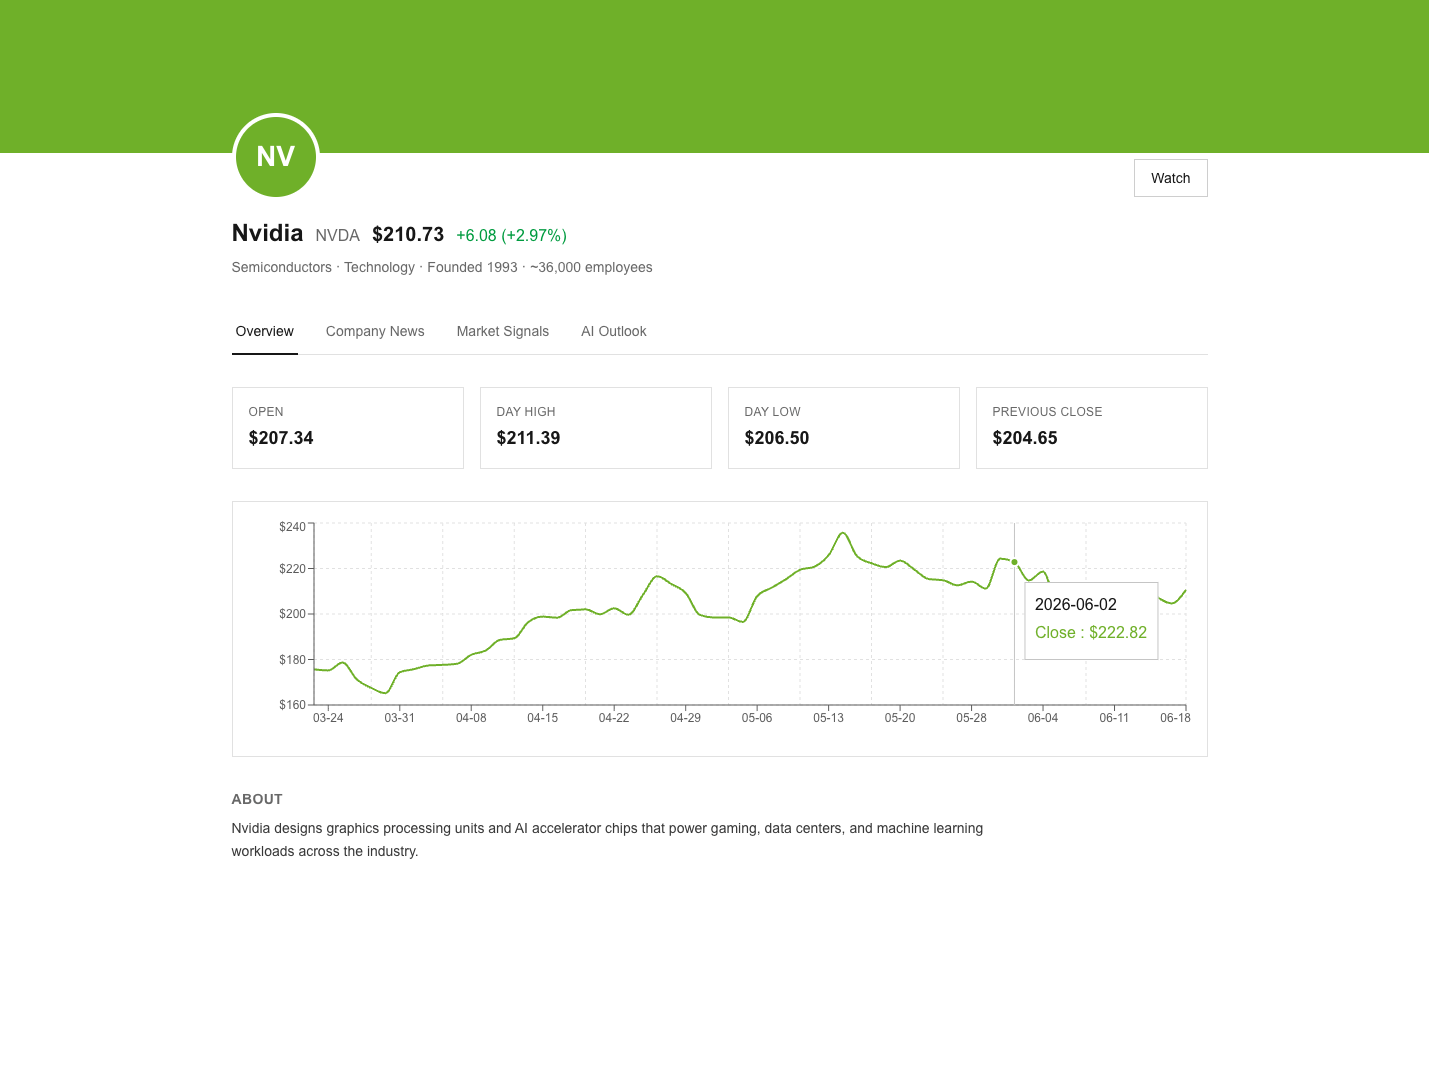
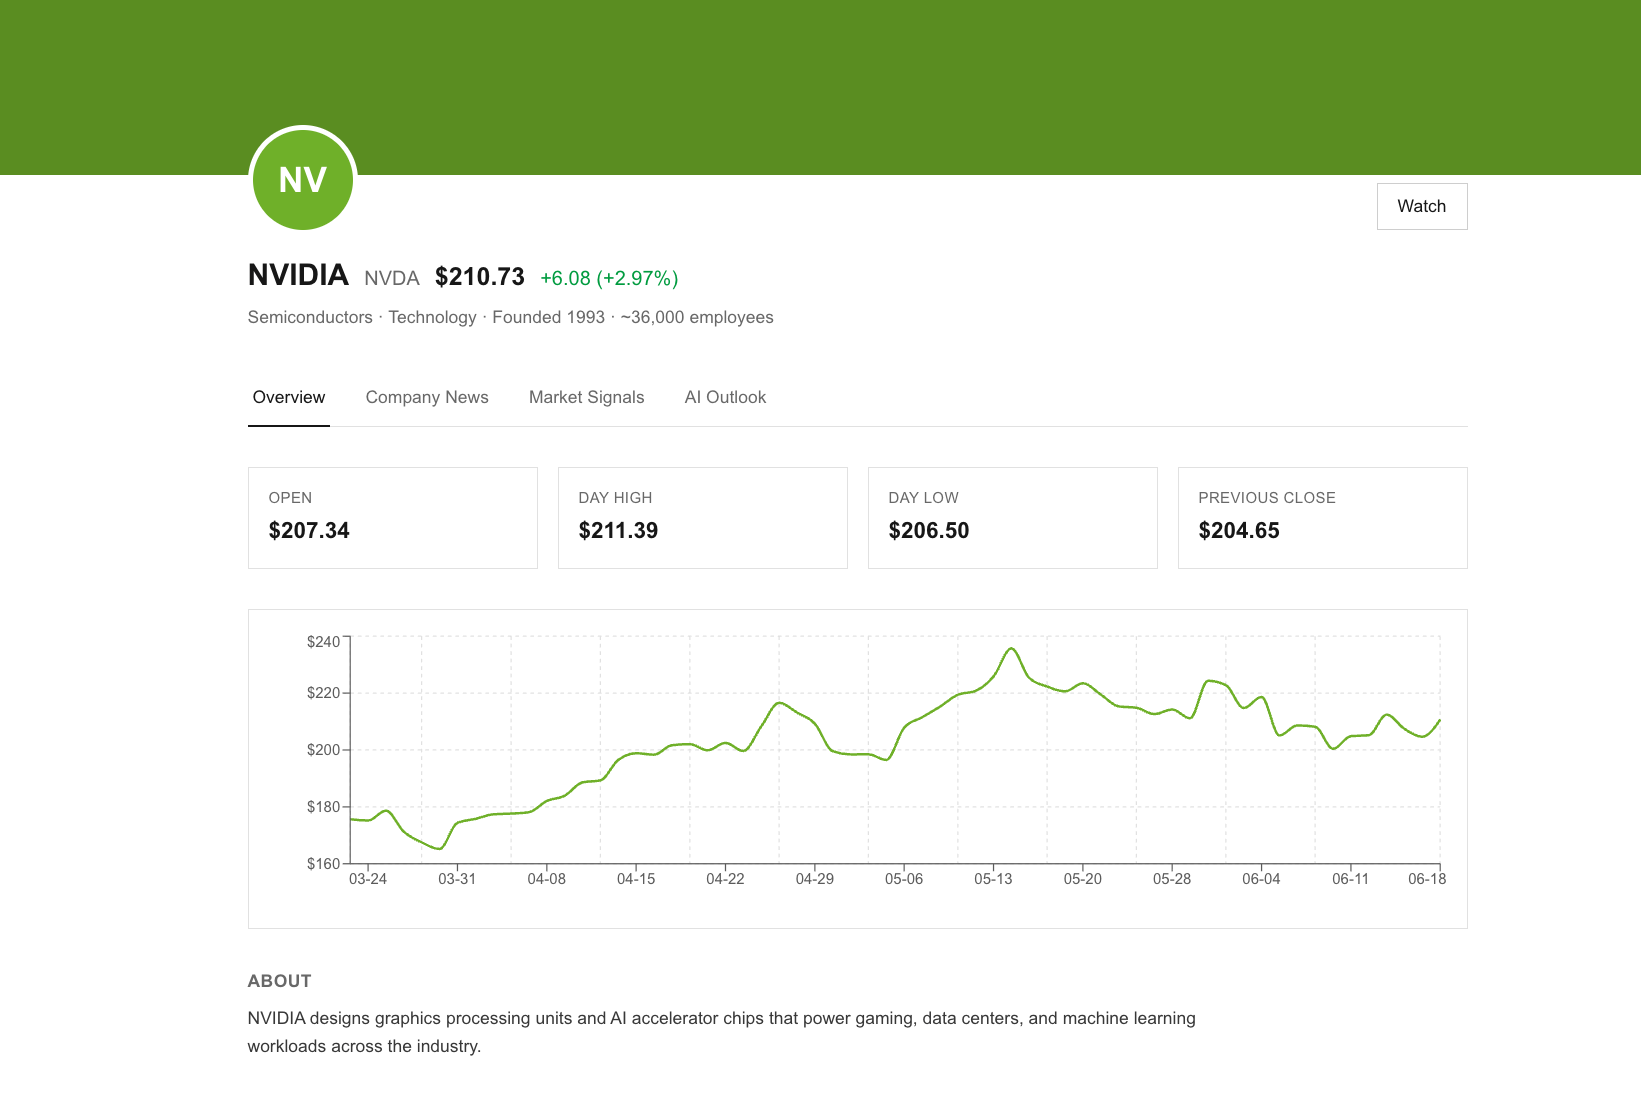
Add watchlist dashboard with live sparklines
New /dashboard route showing all 7 companies as cards with logo,
price, % change, and a 90-day sparkline -- reuses the existing
lib/types.ts, lib/companies.ts, and /api/stock/[ticker] data layer
rather than the duplicated parallel structures from an earlier
design proposal (separate types, a second hardcoded company list,
split quote/candle API routes).

Extracted the shared /api/stock/[ticker] fetch into lib/stockApi.ts
so CompanyCard and the new WatchlistCard don't duplicate fetch logic.

Deliberately omits a sentiment badge (the design proposal had a
hardcoded "BULLISH" tag) since AI Outlook isn't connected to the
frontend yet -- showing a fabricated signal would contradict the
honesty we've maintained elsewhere (e.g. the FastAPI response
exposing its own weak accuracy).

Also updates the README screenshots to show the dashboard and both
working company page tabs instead of the single placeholder image,
and adds the precise current model accuracy (~0.6pp edge over
baseline at best, underperforms on a 7-day horizon) rather than
leaving the claim vague.

diff --git a/frontend/components/Sparkline.tsx b/frontend/components/Sparkline.tsx
@@ -1,0 +1,44 @@
+"use client";
+
+import { Area, AreaChart, ResponsiveContainer } from "recharts";
+import type { Candle } from "@/lib/types";
+
+export default function Sparkline({
+  candles,
+  color,
+}: {
+  candles: Candle[];
+  color: string;
+}) {
+  if (candles.length === 0) {
+    return (
+      <div className="flex h-16 w-full items-center">
+        <div className="h-px w-full bg-neutral-200" />
+      </div>
+    );
+  }
+
+  return (
+    <div className="h-16 w-full">
+      <ResponsiveContainer width="100%" height="100%">
+        <AreaChart data={candles} margin={{ top: 2, right: 0, left: 0, bottom: 2 }}>
+          <defs>
+            <linearGradient id={`spark-${color}`} x1="0" y1="0" x2="0" y2="1">
+              <stop offset="5%" stopColor={color} stopOpacity={0.2} />
+              <stop offset="95%" stopColor={color} stopOpacity={0} />
+            </linearGradient>
+          </defs>
+          <Area
+            type="monotone"
+            dataKey="close"
+            stroke={color}
+            strokeWidth={1.5}
+            fill={`url(#spark-${color})`}
+            dot={false}
+            isAnimationActive={false}
+          />
+        </AreaChart>
+      </ResponsiveContainer>
+    </div>
+  );
+}

diff --git a/frontend/app/page.tsx b/frontend/app/page.tsx
@@ -1,25 +1,34 @@
 import Image from "next/image";
+import Link from "next/link";
 import CompanyCard from "@/components/CompanyCard";
 import { companies } from "@/lib/companies";
 
 export default function Home() {
   return (
     <main className="mx-auto w-full max-w-5xl flex-1 px-6 py-12">
-      <header className="mb-10">
-        <div className="flex items-center gap-3">
-          <Image
-            src="/livestock-bull.png"
-            alt="LiveStock"
-            width={40}
-            height={40}
-          />
-          <h1 className="text-2xl font-bold text-neutral-900">LiveStock</h1>
+      <header className="mb-10 flex items-baseline justify-between">
+        <div>
+          <div className="flex items-center gap-3">
+            <Image
+              src="/livestock-bull.png"
+              alt="LiveStock"
+              width={40}
+              height={40}
+            />
+            <h1 className="text-2xl font-bold text-neutral-900">LiveStock</h1>
+          </div>
+          <p className="mt-2 max-w-2xl text-sm text-neutral-600">
+            LiveStock explores whether price history, technical indicators,
+            and news sentiment carry signal about stock direction over short
+            time horizons. Not a trading product.
+          </p>
         </div>
-        <p className="mt-2 max-w-2xl text-sm text-neutral-600">
-          LiveStock explores whether price history, technical indicators, and
-          news sentiment carry signal about stock direction over short time
-          horizons. Not a trading product.
-        </p>
+        <Link
+          href="/dashboard"
+          className="text-sm text-neutral-500 hover:text-neutral-900"
+        >
+          Watchlist →
+        </Link>
       </header>
 
       <div className="grid grid-cols-1 gap-4 sm:grid-cols-2 lg:grid-cols-3">

diff --git a/frontend/app/dashboard/page.tsx b/frontend/app/dashboard/page.tsx
@@ -1,0 +1,27 @@
+import Link from "next/link";
+import WatchlistCard from "@/components/WatchlistCard";
+import { companies } from "@/lib/companies";
+
+export default function DashboardPage() {
+  return (
+    <main className="mx-auto w-full max-w-5xl flex-1 px-6 py-12">
+      <header className="mb-10 flex items-baseline justify-between">
+        <div>
+          <h1 className="text-2xl font-bold text-neutral-900">Watchlist</h1>
+          <p className="mt-2 text-sm text-neutral-600">
+            {companies.length} companies tracked.
+          </p>
+        </div>
+        <Link href="/" className="text-sm text-neutral-500 hover:text-neutral-900">
+          ← Companies
+        </Link>
+      </header>
+
+      <div className="grid grid-cols-1 gap-4 sm:grid-cols-2 lg:grid-cols-3">
+        {companies.map((company) => (
+          <WatchlistCard key={company.slug} company={company} />
+        ))}
+      </div>
+    </main>
+  );
+}

diff --git a/frontend/lib/stockApi.ts b/frontend/lib/stockApi.ts
@@ -1,0 +1,11 @@
+import type { Candle, Quote } from "./types";
+
+export async function fetchStock(
+  ticker: string
+): Promise<{ quote: Quote; candles: Candle[] }> {
+  const res = await fetch(`/api/stock/${ticker}`);
+  if (!res.ok) {
+    throw new Error("Failed to load stock data");
+  }
+  return res.json();
+}

diff --git a/README.md b/README.md
@@ -8,7 +8,11 @@ See the [LiveStock Design Doc](https://docs.google.com/document/d/1tKu3NXJGf_oY6
 
 #### 🏗️ Under Construction 🏗️
 
-<img width="715" alt="Nvidia company page with live quote, brand banner, and 90-day price chart" src="docs/nvidia-overview.png" />
+<img width="715" alt="Watchlist dashboard with live quotes and sparklines for all tracked companies" src="docs/watchlist-dashboard.png" />
+
+<img width="715" alt="Nvidia company page Overview tab with live quote, brand banner, and 90-day price chart" src="docs/nvidia-overview.png" />
+
+<img width="715" alt="Nvidia company page Company News tab with live headlines" src="docs/nvidia-news.png" />
 
 ## Project structure
 
@@ -97,3 +101,5 @@ uvicorn api.main:app --port 8000
 ```
 
 Training happens once at startup (a few seconds), then `GET /predict/{ticker}` serves predictions from the in-memory model. Supported tickers: `TSLA`, `NVDA`, `MSFT`, `META`, `AMZN`, `GOOGL`. Every response includes the model's own accuracy and the majority-class baseline alongside the prediction — the model doesn't reliably beat that baseline yet (see [`docs/JOURNAL.mdx`](docs/JOURNAL.mdx)), and that should stay visible, not be hidden behind a confident-looking number. Interactive docs at `http://localhost:8000/docs`.
+
+The model currently shows at most a ~0.6 percentage point edge over the majority-class baseline (55.0% vs. 54.4%, 30-day horizon) — not a reliable signal yet. On a 7-day horizon it underperforms the baseline. See [`docs/JOURNAL.mdx`](docs/JOURNAL.mdx) for the full methodology and findings.